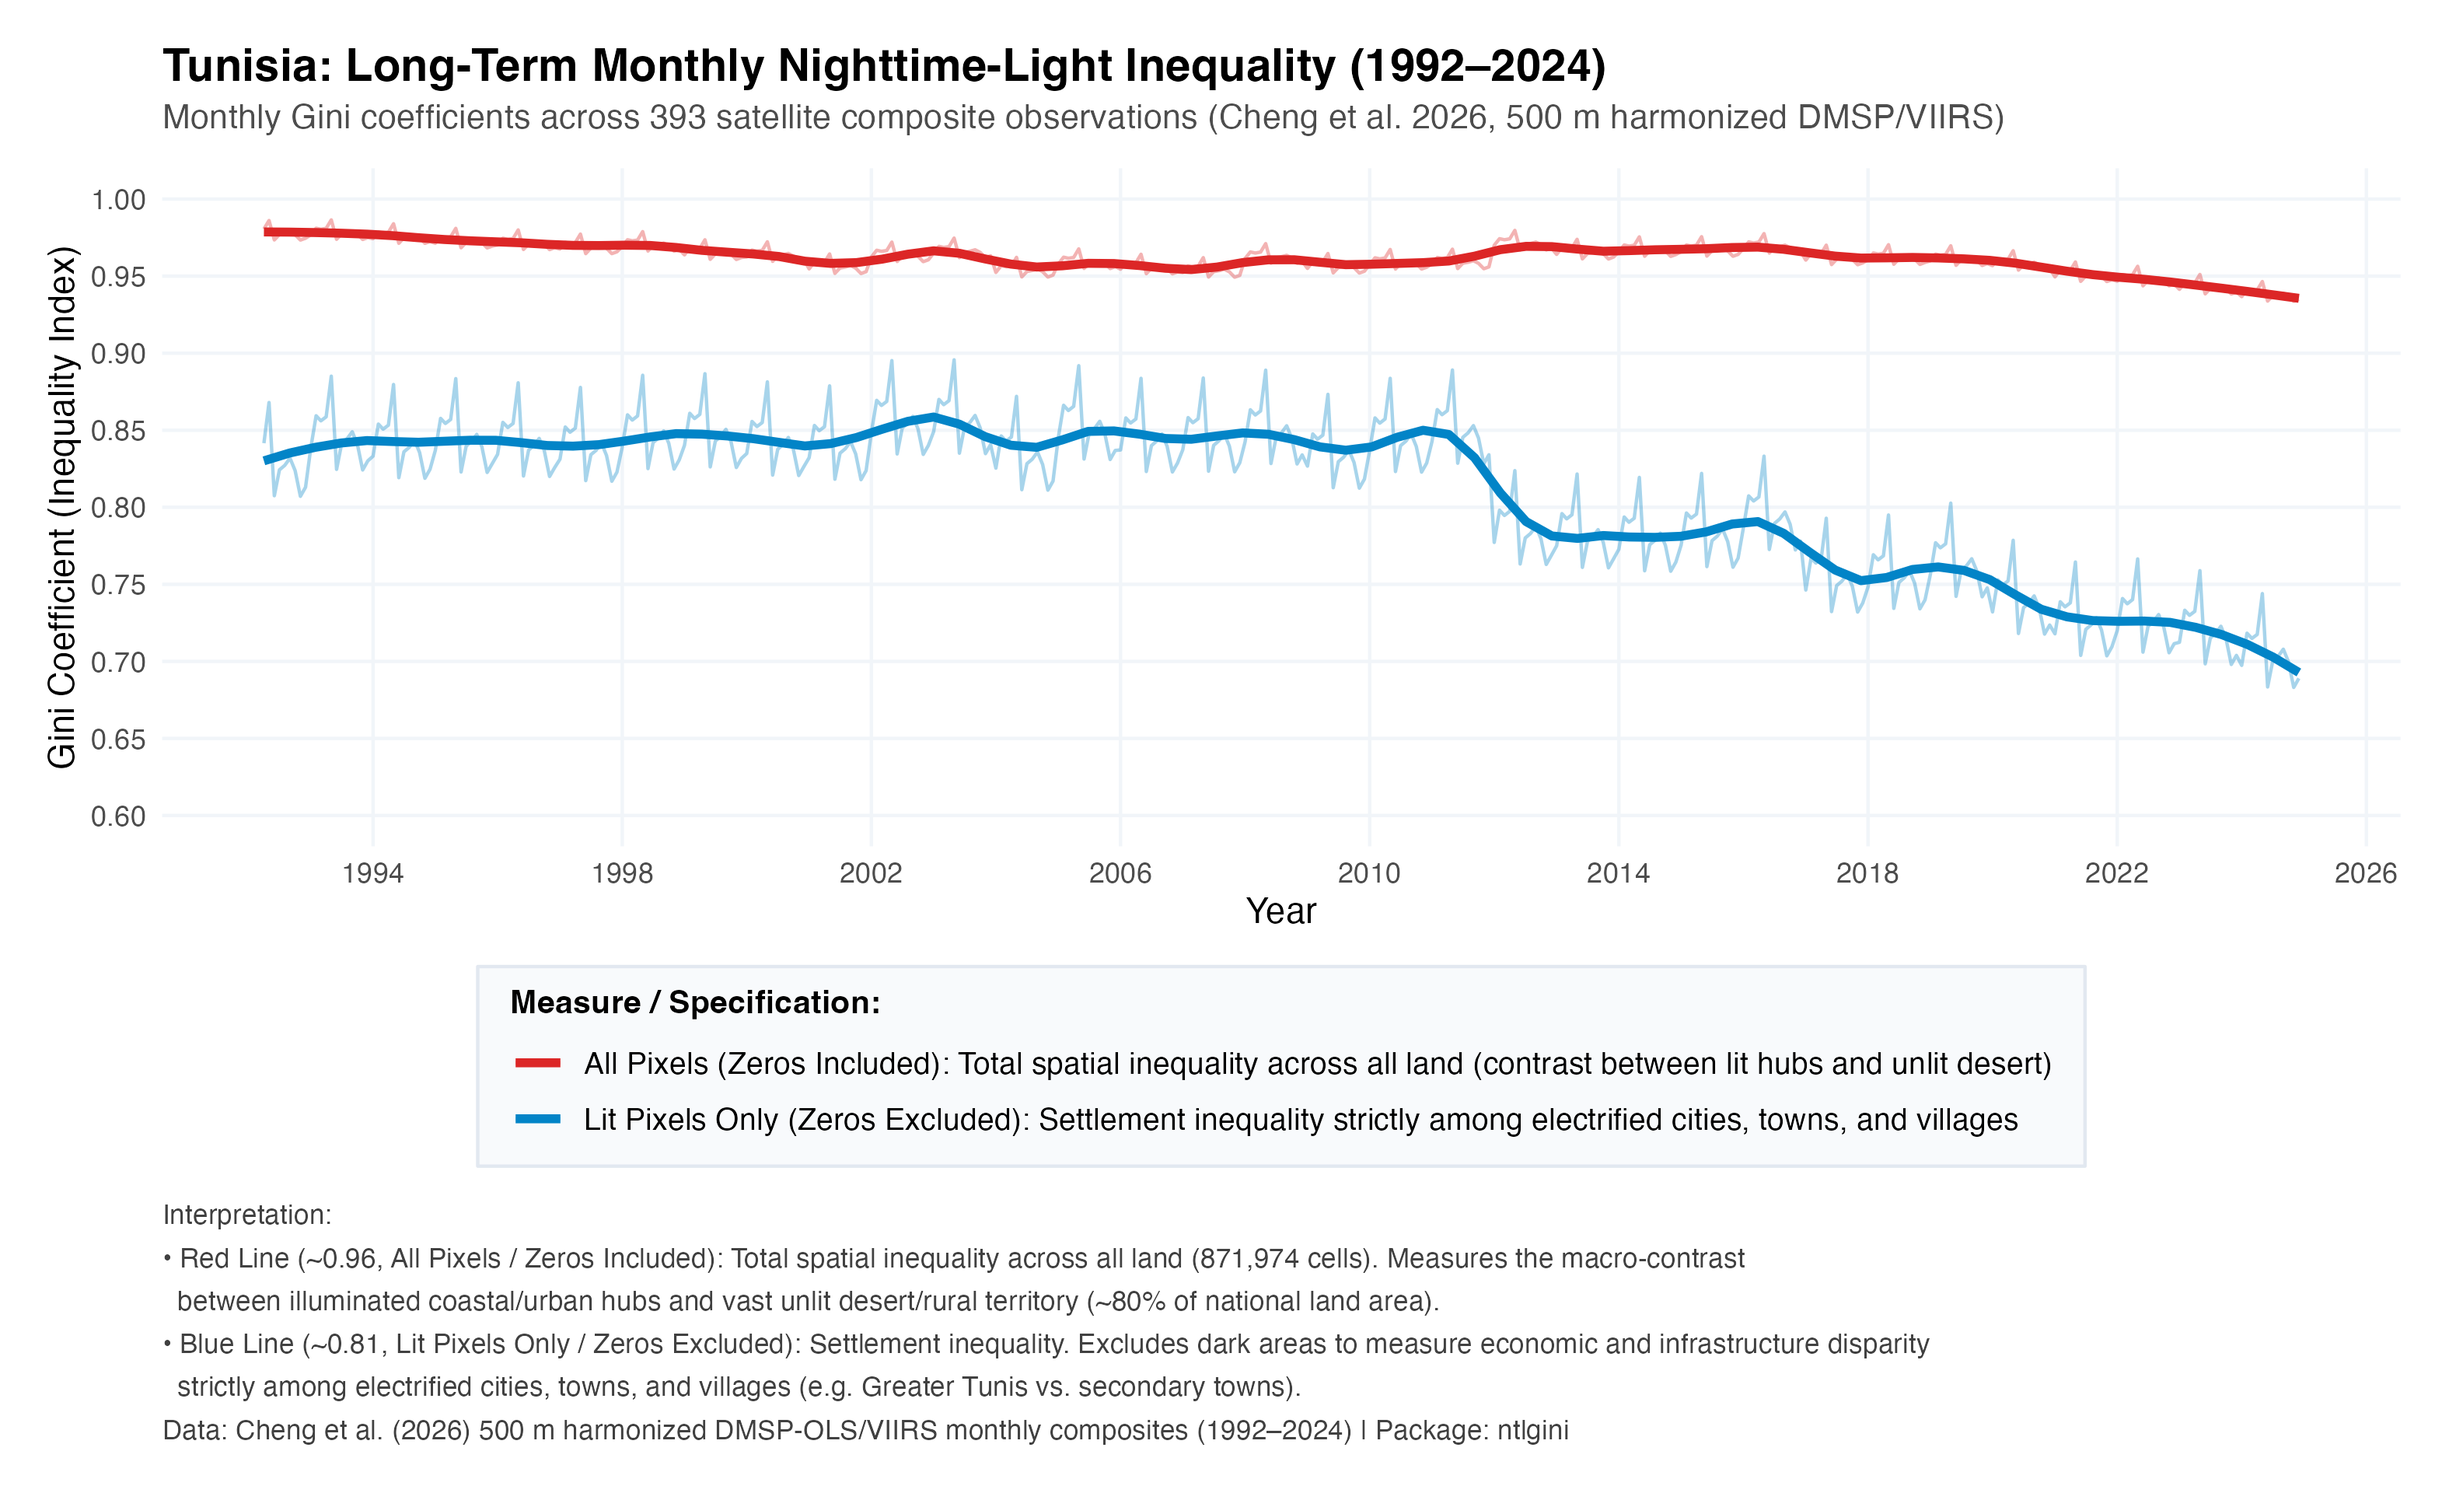
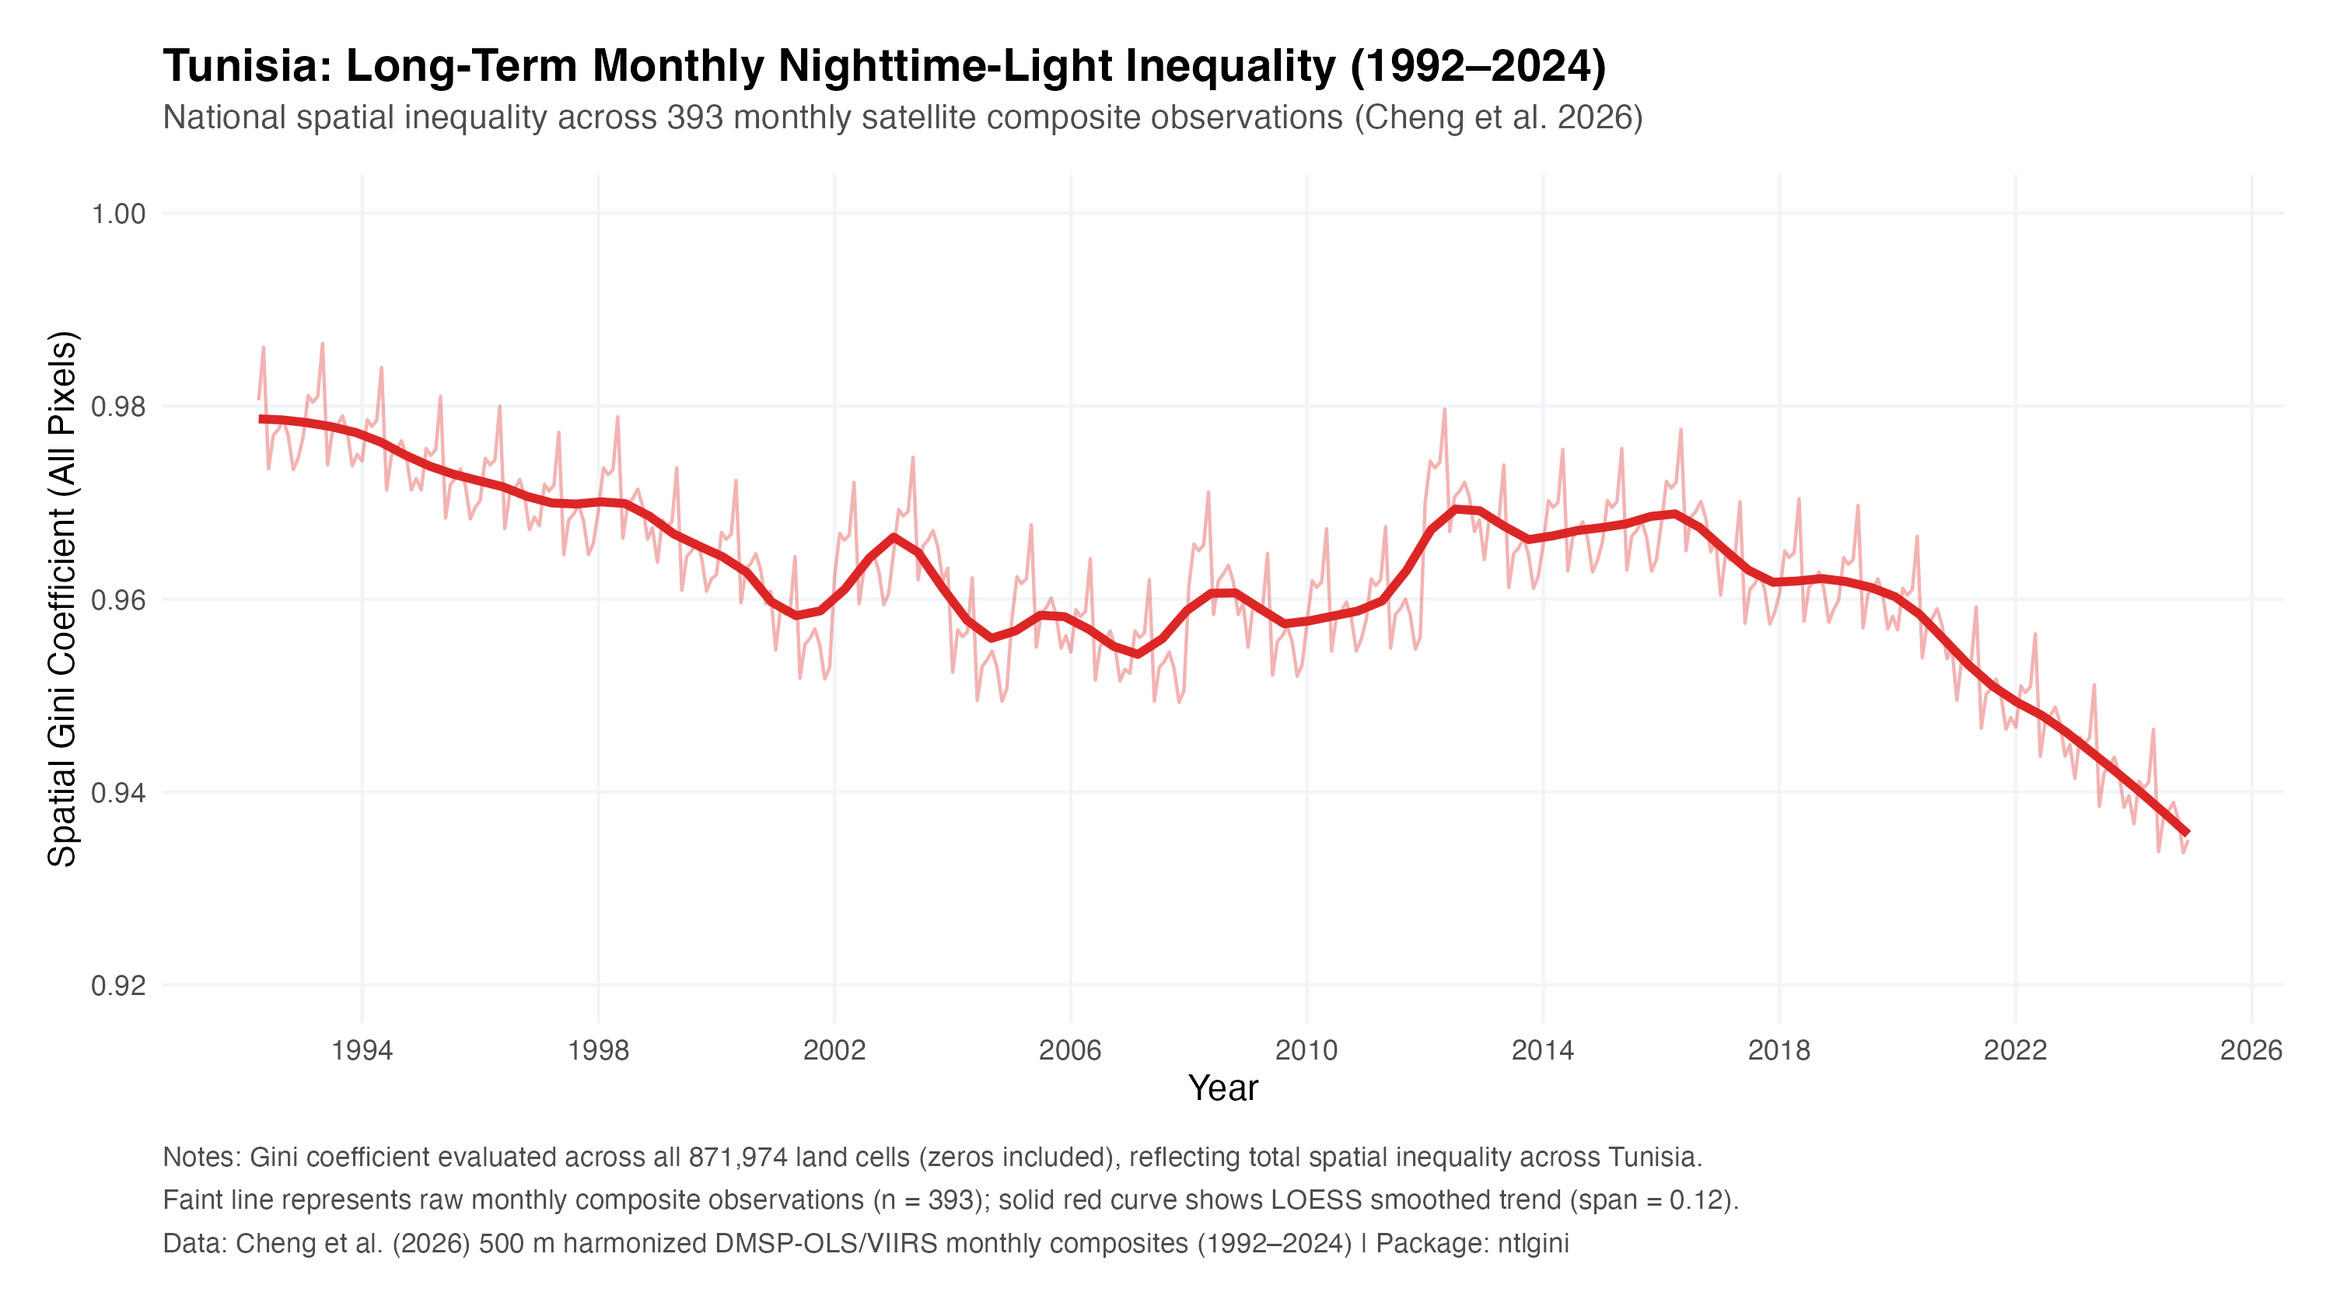
docs: streamline monthly inequality example to focus on total spatial Gini

diff --git a/README.md b/README.md
@@ -88,66 +88,41 @@ ntl_gini_top_units(level = "adm3", iso3 = "TUN", year = 2024, n = 10)
 
 #### 1. Analyzing Long-Term National Monthly Inequality (1992–2024)
 
-Query monthly Gini coefficients, Theil indices, and light volume across the entire 33-year satellite record (1992–2024, 393 monthly observations) for Tunisia. Researchers can evaluate two complementary dimensions of nighttime light inequality:
-
-- **All Pixels (`zeros_included`, Red Line, ~0.96 Gini):** Total spatial inequality across all physical land surface (871,974 cells). Because ~80% of Tunisia consists of unlit desert or rural territory, this measures the macro-geographic divide and contrast between illuminated human settlements and unlit dark expanses.
-- **Lit Pixels Only (`lit_only`, Blue Line, ~0.81 Gini):** Inter-settlement economic inequality. Excludes zero-radiance cells to isolate disparity and concentration strictly among electrified cities, towns, and villages (e.g., Greater Tunis vs. secondary urban centers).
+Query monthly Gini coefficients, Theil indices, and light volume across the entire 33-year satellite record (1992–2024, 393 monthly observations) for Tunisia. This evaluates the evolution of total spatial inequality across all physical land surface (871,974 cells, including unlit rural and desert territory):
 
 ```r
 library(ntlgini)
 library(ggplot2)
 
-# Query complete 33-year monthly time series (1992-2024) for Tunisia
-tun_all <- ntl_gini_monthly("Tunisia", level = "national", years = 1992:2024, zeros = "zeros_included")
-tun_lit <- ntl_gini_monthly("Tunisia", level = "national", years = 1992:2024, zeros = "lit_only")
-tun_monthly <- rbind(tun_all, tun_lit)
+# Query complete 33-year monthly time series (1992-2024) for Tunisia (zeros included)
+tun_monthly <- ntl_gini_monthly("Tunisia", level = "national", years = 1992:2024, zeros = "zeros_included")
 
-# Set factor ordering so the legend reflects the vertical order of the plot
-tun_monthly$zeros <- factor(tun_monthly$zeros, levels = c("zeros_included", "lit_only"))
-
-# Informative multi-line interpretation caption
+# Caption explaining data source and methodology
 caption_text <- paste(
-  "Interpretation:",
-  "• Red Line (~0.96, All Pixels / Zeros Included): Total spatial inequality across all land (871,974 cells). Measures the macro-contrast",
-  "  between illuminated coastal/urban hubs and vast unlit desert/rural territory (~80% of national land area).",
-  "• Blue Line (~0.81, Lit Pixels Only / Zeros Excluded): Settlement inequality. Excludes dark areas to measure economic and infrastructure disparity",
-  "  strictly among electrified cities, towns, and villages (e.g. Greater Tunis vs. secondary towns).",
+  "Notes: Gini coefficient evaluated across all 871,974 land cells (zeros included), reflecting total spatial inequality across Tunisia.",
+  "Faint line represents raw monthly composite observations (n = 393); solid red curve shows LOESS smoothed trend (span = 0.12).",
   "Data: Cheng et al. (2026) 500 m harmonized DMSP-OLS/VIIRS monthly composites (1992–2024) | Package: ntlgini",
   sep = "\n"
 )
 
-# Plot long-term monthly inequality dynamics across 1992-2024 (393 months)
-ggplot(tun_monthly, aes(x = as.Date(date), y = gini, color = zeros)) +
-  geom_line(alpha = 0.35, linewidth = 0.5) +
-  geom_smooth(method = "loess", span = 0.12, se = FALSE, linewidth = 1.3) +
-  scale_color_manual(
-    name = "Measure / Specification:",
-    values = c("zeros_included" = "#dc2626", "lit_only" = "#0284c7"),
-    labels = c(
-      "zeros_included" = "All Pixels (Zeros Included): Total spatial inequality across all land (contrast between lit hubs and unlit desert)",
-      "lit_only"       = "Lit Pixels Only (Zeros Excluded): Settlement inequality strictly among electrified cities, towns, and villages"
-    )
-  ) +
+# Plot long-term monthly spatial inequality dynamics across 1992-2024 (393 months)
+ggplot(tun_monthly, aes(x = as.Date(date), y = gini)) +
+  geom_line(color = "#dc2626", alpha = 0.35, linewidth = 0.5) +
+  geom_smooth(method = "loess", span = 0.12, se = FALSE, color = "#dc2626", linewidth = 1.3) +
   scale_x_date(date_breaks = "4 years", date_labels = "%Y") +
-  scale_y_continuous(limits = c(0.60, 1.00), breaks = seq(0.60, 1.00, 0.05)) +
+  scale_y_continuous(limits = c(0.92, 1.00), breaks = seq(0.92, 1.00, 0.02)) +
   labs(
     title = "Tunisia: Long-Term Monthly Nighttime-Light Inequality (1992–2024)",
-    subtitle = "Monthly Gini coefficients across 393 satellite composite observations (Cheng et al. 2026, 500 m harmonized DMSP/VIIRS)",
+    subtitle = "National spatial inequality across 393 monthly satellite composite observations (Cheng et al. 2026)",
     x = "Year",
-    y = "Gini Coefficient (Inequality Index)",
+    y = "Spatial Gini Coefficient (All Pixels)",
     caption = caption_text
   ) +
   theme_minimal(base_size = 11) +
   theme(
     plot.title = element_text(face = "bold", size = 14, margin = margin(b = 4)),
-    plot.subtitle = element_text(size = 10.5, color = "grey30", margin = margin(b = 10)),
-    plot.caption = element_text(size = 8.5, color = "grey25", hjust = 0, lineheight = 1.3, margin = margin(t = 12)),
-    legend.position = "bottom",
-    legend.direction = "vertical",
-    legend.title = element_text(face = "bold", size = 10),
-    legend.text = element_text(size = 9.5),
-    legend.background = element_rect(fill = "#f8fafc", color = "#e2e8f0", linewidth = 0.5),
-    legend.margin = margin(t = 6, r = 10, b = 6, l = 10),
+    plot.subtitle = element_text(size = 10.5, color = "grey30", margin = margin(b = 12)),
+    plot.caption = element_text(size = 8.5, color = "grey30", hjust = 0, lineheight = 1.3, margin = margin(t = 12)),
     panel.grid.minor = element_blank(),
     panel.grid.major = element_line(color = "#f1f5f9"),
     plot.margin = margin(15, 15, 15, 15)
